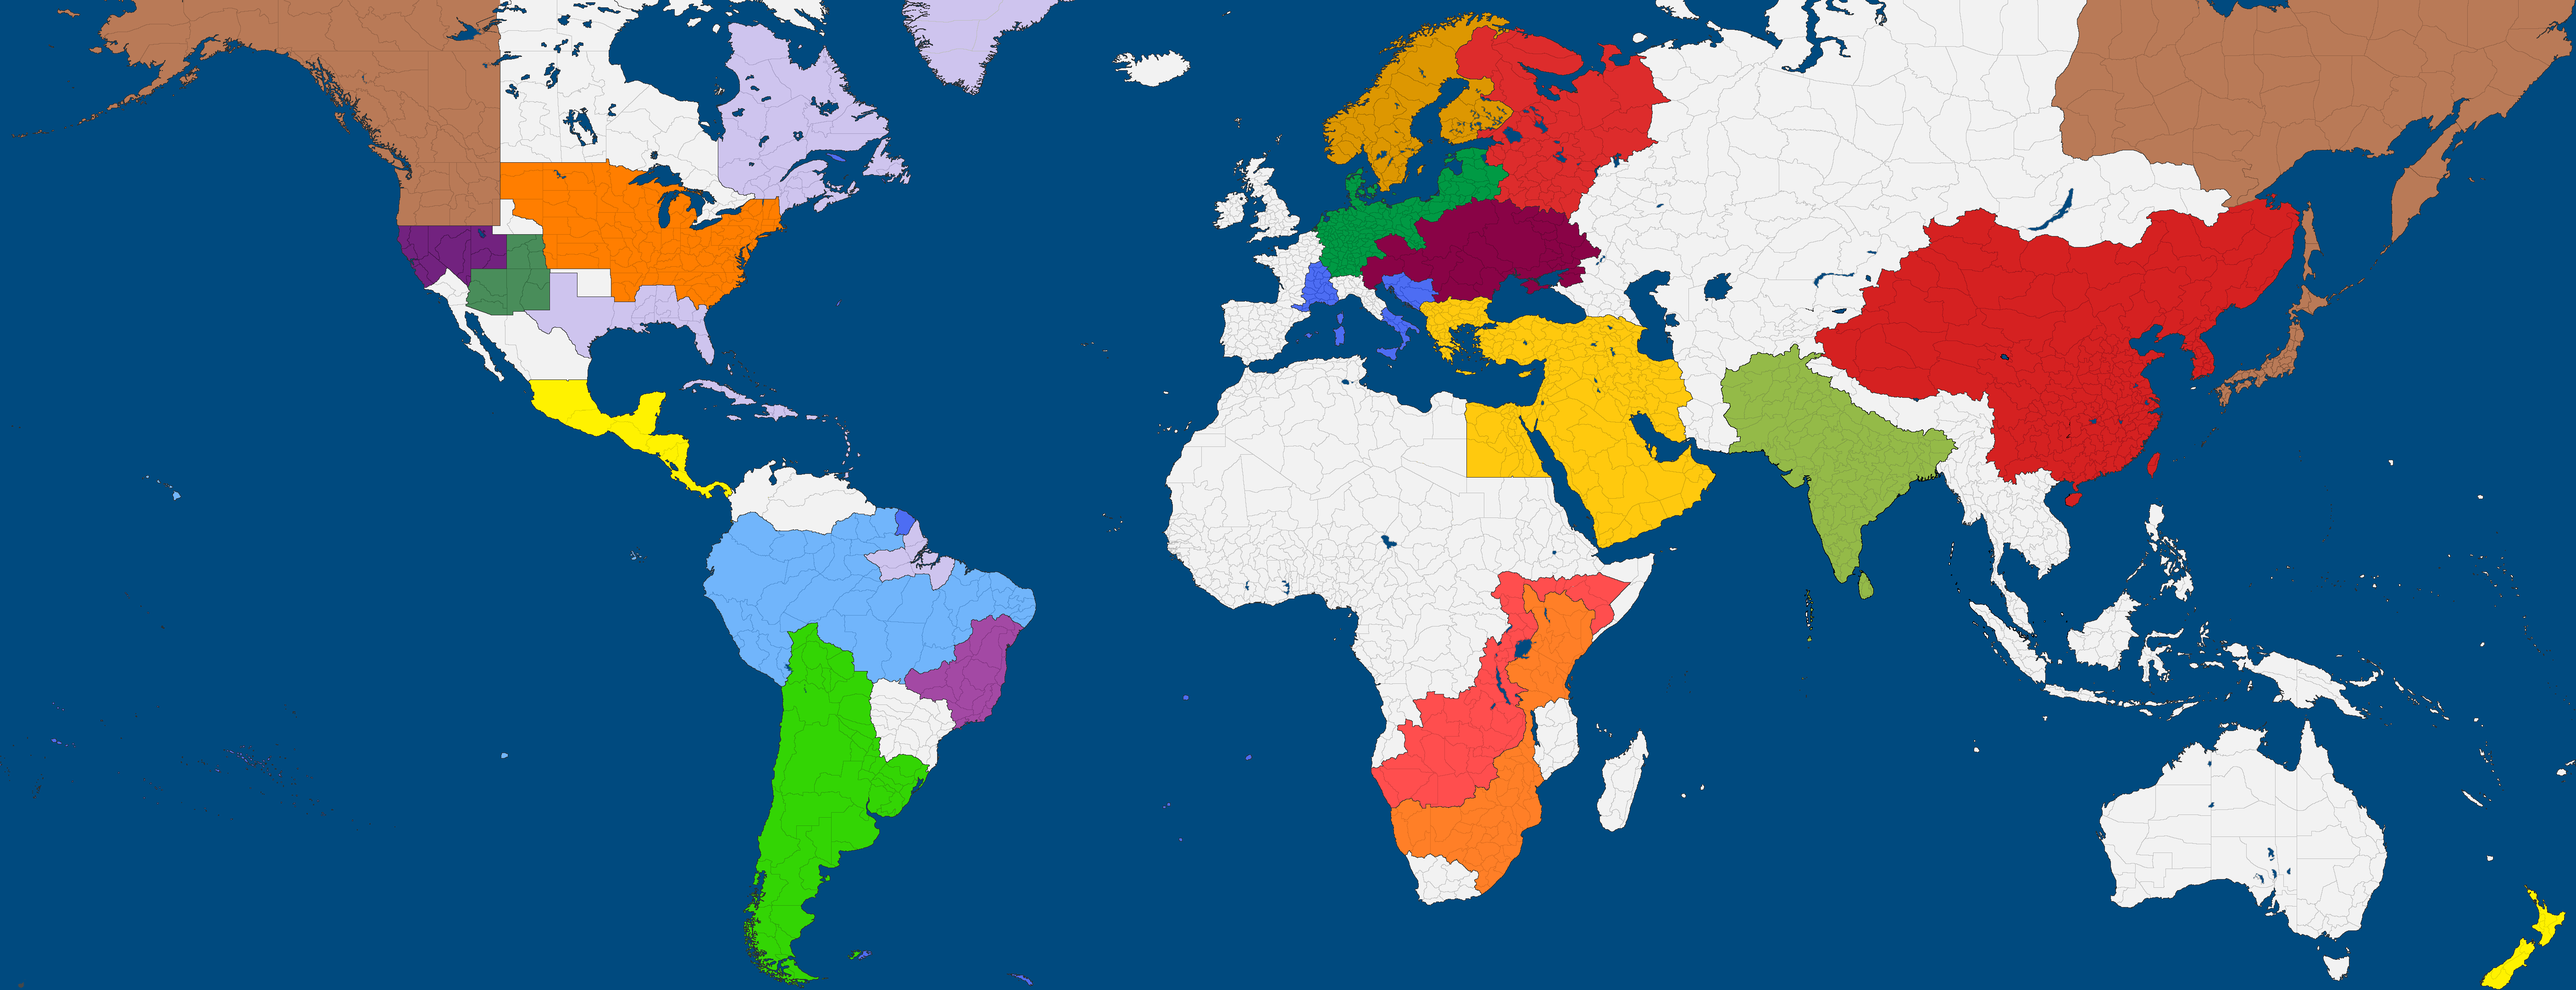
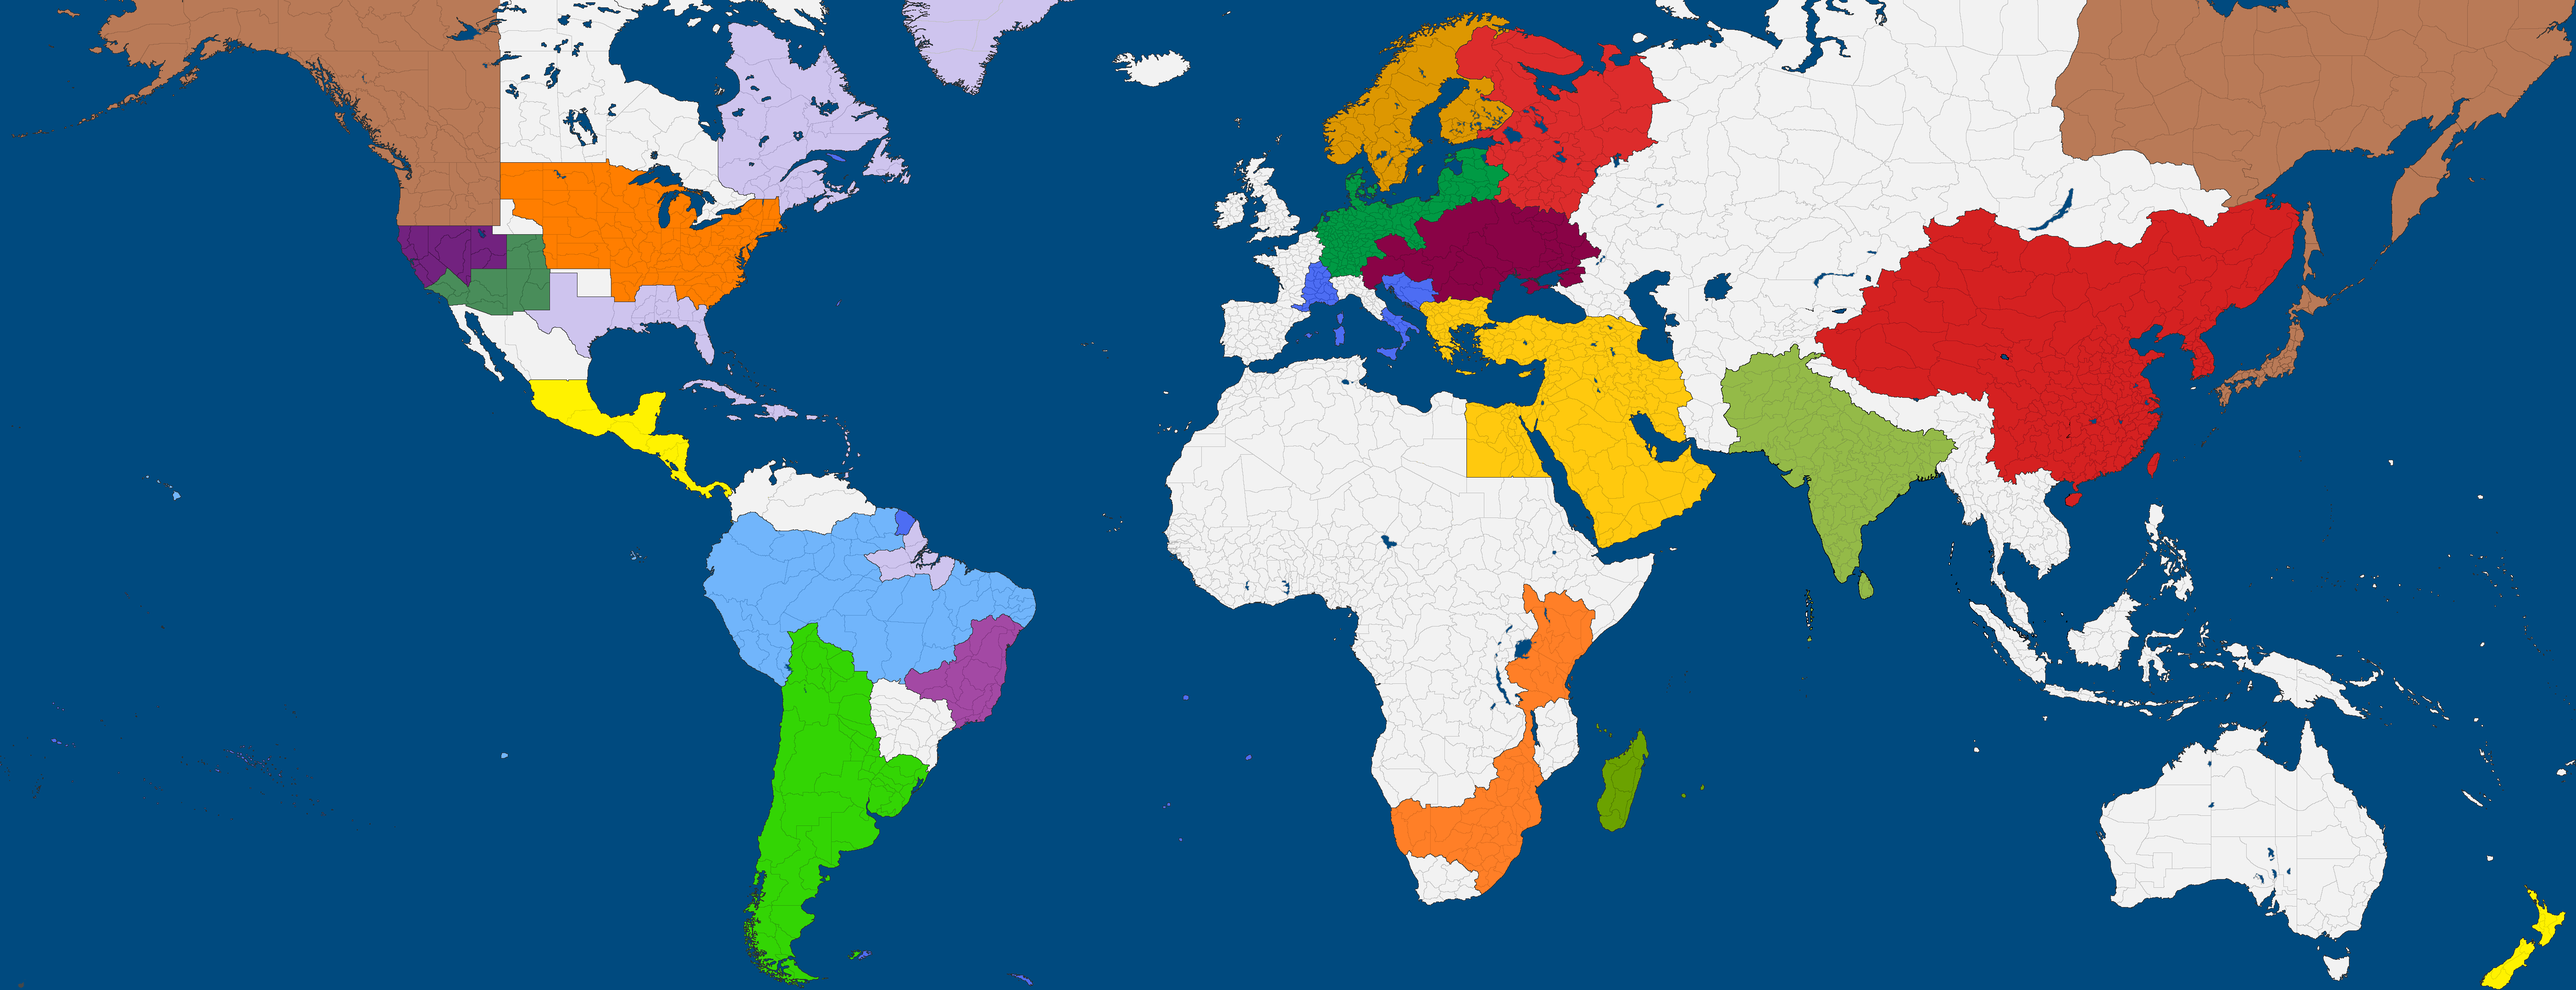
Update earth map

Changed region(s): [[0.5297, 0.5583, 0.6544, 0.8375], [0.6232, 0.7444, 0.6544, 0.8375], [0.1558, 0.2792, 0.187, 0.3102]]

diff --git a/index.html b/index.html
@@ -41,7 +41,7 @@
             <th style="vertical-align:top"><ul class="legendcontent">
               <li><div class="box PGF"></div>PINO GRAND FENWICK</li>
               <li><div class="box ginger"></div>GINGERLANDZ</li>
-              <li><div class="box salani"></div>SALANI</li>
+              <li><div class="box artite_earth"></div>ARTITE</li>
             </ul></th>
             
             <th style="vertical-align:top"><ul class="legendcontent">
@@ -59,7 +59,6 @@
               <li><div class="box cali"></div>CALICATHIA</li>
               <li><div class="box PGF"></div>PINO GRAND FENWICK</li>
               <li><div class="box stek"></div>STEKARUS</li>
-              <li><div class="box brit"></div>ENGLISH FREE STATE</li>
               <li><div class="box teut"></div>TEUTIONIA</li>
               <li><div class="box soviet"></div>RTSSR</li>
             </ul></th>
@@ -91,7 +90,7 @@
           </tr>
       </table>
       <div id="spaceDate" class="legendcontent">
-      	<p>Updated 5th January 2018</p>
+      	<p>Updated 14th Feburary 2018</p>
       </div>
     </div>
   </div>
@@ -302,8 +301,8 @@
     .brit {
       background: #6867c1;
     }
-    .salani {
-      background: #ff4f4f;
+    .artite_earth {
+      background: #6ba200;
     }
     .hawaii {
       background: #2ed9d9;
